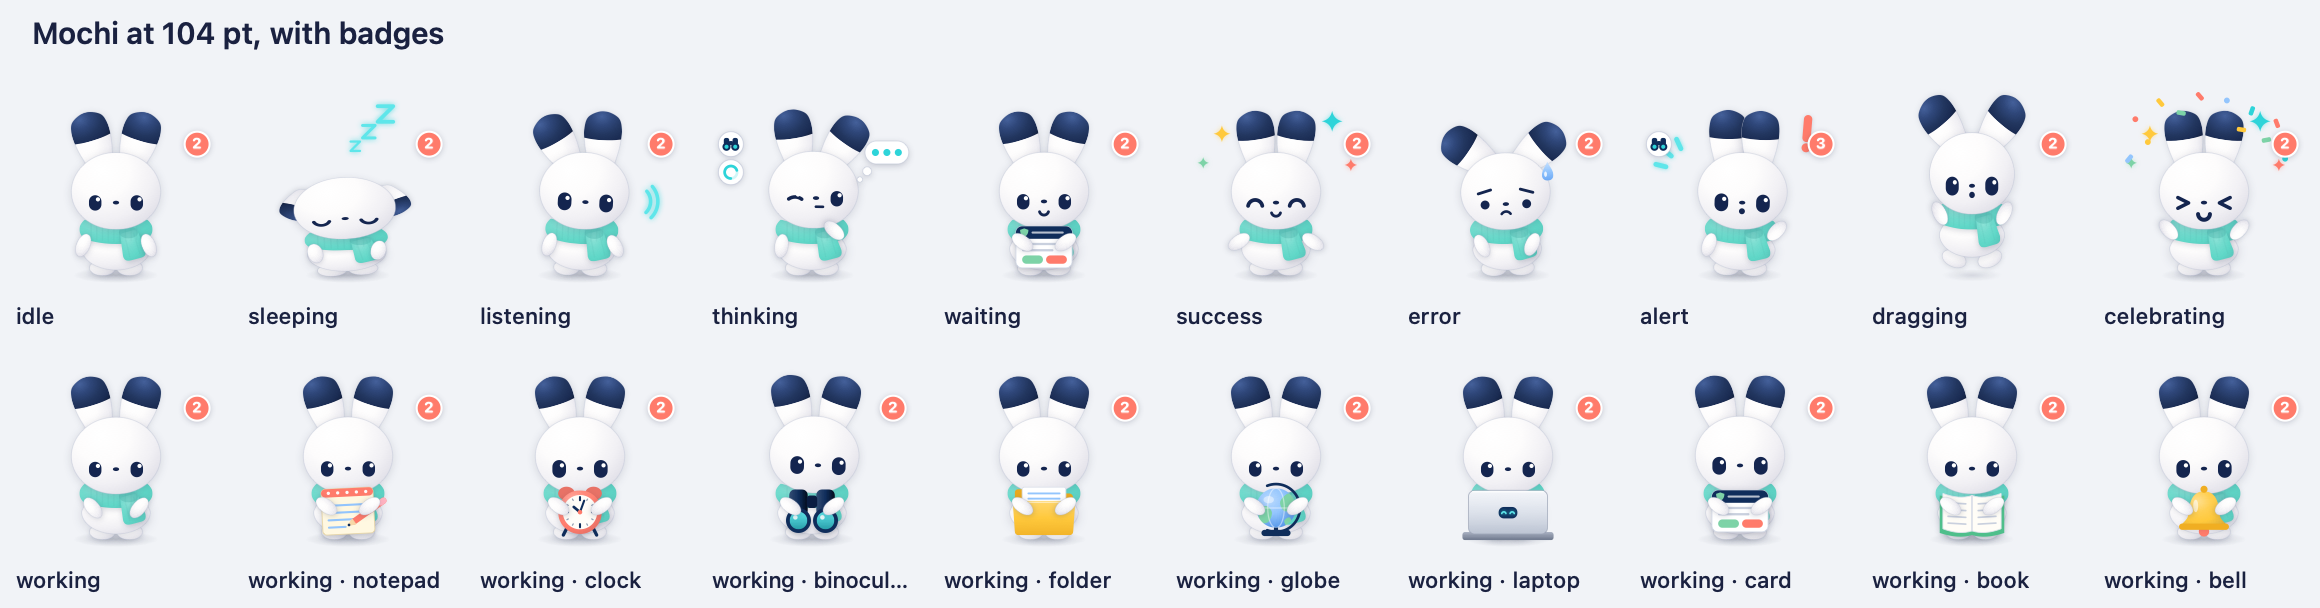
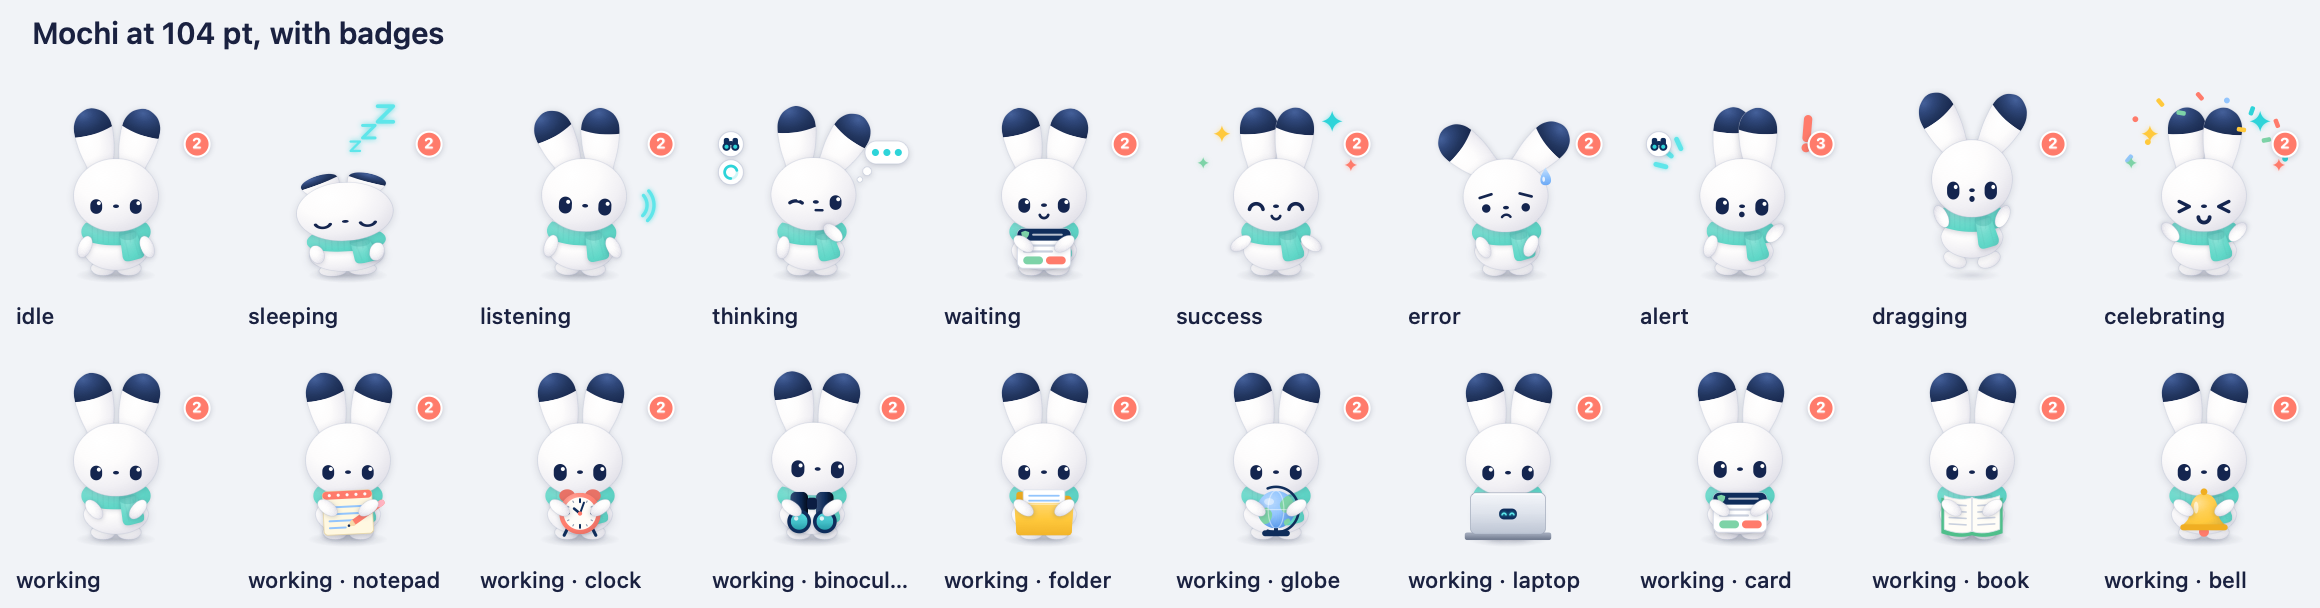
Mochi's ears after the mascot: taller ovals with round navy tips, a lively lean, tucked back asleep
- About 25% longer, egg-shaped: slim where they join behind the head, widest high up, tapering a
  little to a fully round tip; the navy covers the top two fifths with a soft curved boundary,
  a little lower on the outer side.
- Rest lean 11.5° and 14° (left, right), so the pair isn't a mirror image.
- Asleep they lie back behind the head: only the round navy tips show over it.
- Species.scale: Mochi is drawn at 95% so the taller ears stay in the window when it hops or is
  lifted (every state still fits; tested).

diff --git a/Sources/SidefolkCharacter/Mochi.swift b/Sources/SidefolkCharacter/Mochi.swift
@@ -23,17 +23,22 @@ extension Species {
         // Eyes low and wide on the face, a little bigger than the folks' (scale): they carry the cuteness.
         face: SoftFace(kind: .ink, eyes: (pt(80, 89.5), pt(120, 89.5)), mouth: pt(100, 81.5),
                        nose: CGRect(x: 97, y: 88, width: 6, height: 3.6), scale: 1.14),
-        appendages: [ear(base: pt(85, 127), angle: 0.3, side: -1), ear(base: pt(115, 127), angle: -0.3, side: 1)],
+        // A slight outward lean, one ear a touch more than the other, so it looks alive.
+        appendages: [ear(base: pt(85, 127), angle: 0.2, side: -1), ear(base: pt(115, 127), angle: -0.25, side: 1)],
         collar: Collar(center: pt(100, 64), halfWidth: 30, sag: 4.5, height: 19, tail: 1.45),
-        restingFrame: CGRect(x: 57, y: 20, width: 86, height: 156),
+        restingFrame: CGRect(x: 57, y: 20, width: 86, height: 168),
         markOffsets: [.zzz: pt(-20, 20), .dots: pt(22, -18), .question: pt(8, 0), .exclaim: pt(6, 0),
-                      .sweat: pt(-6, -12), .waves: pt(-15, -6), .ticks: pt(-10, -14)])
+                      .sweat: pt(-6, -12), .waves: pt(-15, -6), .ticks: pt(-10, -14)],
+        // Its tall ears would leave the window when it hops or is lifted at full size.
+        scale: 0.95)
 
-    /// A tall rabbit ear rising from behind the head: slim where it joins, round at the top, the
-    /// upper part dipped in navy. Asleep it folds back and down along the head.
+    /// A tall rabbit ear rising from behind the head: a long oval, slim where it joins, tapering a
+    /// little to a fully round tip, its top two fifths dipped in navy. Asleep it lies back behind
+    /// the head, only the round tips showing over it.
     private static func ear(base: CGPoint, angle: CGFloat, side: CGFloat) -> AppendageSpec {
-        let outline = Paths.blob([pt(-10, -4), pt(-15, 10), pt(-17.5, 23), pt(-18, 35), pt(-14, 46), pt(0, 51.5),
-                                  pt(14, 46), pt(18, 35), pt(17.5, 23), pt(15, 10), pt(10, -4), pt(0, -7)])
+        let outline = Paths.blob([pt(-10.5, -4), pt(-14.5, 8), pt(-17.5, 20), pt(-19, 31), pt(-19.5, 41), pt(-17.5, 50.5),
+                                  pt(-11.5, 58.5), pt(0, 63), pt(11.5, 58.5), pt(17.5, 50.5), pt(19.5, 41), pt(19, 31),
+                                  pt(17.5, 20), pt(14.5, 8), pt(10.5, -4), pt(0, -7)])
         return AppendageSpec(base: base, angle: angle, side: side, layers: { _ in
             let root = Layers.canvas()
             let ear = SoftShape(outline, shading: Shading(colors: Palette.fur, locations: [0, 0.3, 0.6, 0.85, 1],
@@ -44,8 +49,9 @@ extension Species {
             root.addSublayer(ear.layer)
             // The navy cap ends in a soft curve, lower in the middle like the mascot's.
             let dip = CGMutablePath()
-            dip.move(to: pt(-30, 28))
-            dip.addQuadCurve(to: pt(30, 28), control: pt(0, 19))
+            // Gently curved and a little lower on the outer side, like the mascot's.
+            dip.move(to: pt(-30, 42 + 3 * side))
+            dip.addQuadCurve(to: pt(30, 42 - 3 * side), control: pt(0, 31))
             dip.addLine(to: pt(30, 80))
             dip.addLine(to: pt(-30, 80))
             dip.closeSubpath()
@@ -55,6 +61,6 @@ extension Species {
                                                  reach: CGSize(width: 0.95, height: 1.05)))
             root.addSublayer(tip.layer)
             return root
-        }, outline: outline, floppiness: 1, fold: AppendageSpec.Fold(shift: pt(16, -7), turn: 2.15, length: 0.64))
+        }, outline: outline, floppiness: 1, fold: AppendageSpec.Fold(shift: pt(0, -3), turn: -0.1, length: 0.4))
     }
 }

diff --git a/Sources/SidefolkCharacter/SoftRig.swift b/Sources/SidefolkCharacter/SoftRig.swift
@@ -29,6 +29,8 @@ final class SoftRig: Figure {
     let badges = Layers.canvas()
 
     private let species: Species
+    /// The species' drawing scale around the floor point; `body` below it holds the pose.
+    private let fit = Layers.canvas()
     private let body = Layers.canvas()
     private let ground = CAGradientLayer()
     private let feet: [CALayer]
@@ -89,7 +91,7 @@ final class SoftRig: Figure {
 
     private func build() {
         ground.type = .radial
-        let width = species.restingFrame.width * 0.95
+        let width = restingFrame.width * 0.95
         ground.frame = CGRect(x: 100 - width / 2, y: Canvas.floor - 7.5, width: width, height: 15)
         ground.colors = [Palette.ink.cg(0.24), Palette.ink.cg(0.11), Palette.ink.cg(0)]
         ground.locations = [0, 0.5, 1]
@@ -97,7 +99,9 @@ final class SoftRig: Figure {
         ground.endPoint = CGPoint(x: 1, y: 1)
         stage.addSublayer(ground)
 
-        stage.addSublayer(body)
+        fit.setAffineTransform(CGAffineTransform(scaleX: species.scale, y: species.scale))
+        stage.addSublayer(fit)
+        fit.addSublayer(body)
         body.addSublayer(loop)
         loop.addSublayer(gesture)
         gesture.addSublayer(breath)
@@ -195,7 +199,13 @@ final class SoftRig: Figure {
 
     // MARK: Figure
 
-    var restingFrame: CGRect { species.restingFrame }
+    var restingFrame: CGRect { species.restingFrame.applying(fitting) }
+
+    /// Canvas units as the species drew them to canvas units on the stage.
+    private var fitting: CGAffineTransform {
+        CGAffineTransform(translationX: Canvas.pivot.x, y: Canvas.pivot.y).scaledBy(x: species.scale, y: species.scale)
+            .translatedBy(x: -Canvas.pivot.x, y: -Canvas.pivot.y)
+    }
     var listeningLights: [CALayer] { [] }
     var markLight: Light { species.marks ?? accent.light }
     func markOffset(_ effect: Effect) -> CGPoint { species.markOffsets[effect] ?? .zero }
@@ -325,7 +335,7 @@ final class SoftRig: Figure {
             .rotated(by: pose.lean)
             .scaledBy(x: pose.squash.width, y: pose.squash.height)
             .translatedBy(x: -Canvas.pivot.x, y: -Canvas.pivot.y)
-        return Paths.transformed(shape, t)
+        return Paths.transformed(shape, t.concatenating(fitting))
     }
 
     /// The parts that never move relative to the body, merged once.

diff --git a/Sources/SidefolkCharacter/Species.swift b/Sources/SidefolkCharacter/Species.swift
@@ -32,6 +32,9 @@ struct Species {
     var markOffsets: [Effect: CGPoint] = [:]
     /// The colour of its marks when not its accent light.
     var marks: Light?
+    /// Draws the whole body this much smaller around the floor point, so a tall companion's ears
+    /// stay inside the window when it hops or is lifted. Coordinates above are before it.
+    var scale: CGFloat = 1
 
     /// The robot is its own rig; every other companion is a soft rig of its species.
     static func figure(for species: CharacterSpecies) -> any Figure {

diff --git a/docs/CHARACTER.md b/docs/CHARACTER.md
@@ -53,9 +53,10 @@ A `SoftRig` is built from a `Species`: data, not code paths. It says the body's 
 an optional head (Mochi and Spark have necks; folks are one piece), the neck the head turns around,
 feet, shoulders and an `ArmStyle`, the face (`SoftFace`: ink bead eyes, or a dark screen with glowing
 eyes), `AppendageSpec`s (ears, antennae, a sprout), `Gear` worn on the back, head, face or body, an
-optional `Held` signature thing, where a scarf goes (`Collar`), the anchor frame and where effects sit
-clear of its ears (`markOffsets`). `Mochi.swift`, `Spark.swift` and `FolkSpecies.swift` are the
-whole of each companion.
+optional `Held` signature thing, where a scarf goes (`Collar`), the anchor frame, where effects sit
+clear of its ears (`markOffsets`) and a drawing `scale` (Mochi is drawn at 95% so its tall ears stay
+in the window when it hops or is lifted). `Mochi.swift`, `Spark.swift` and `FolkSpecies.swift` are
+the whole of each companion.
 
 On top of the shared choreography a soft rig adds:
 
@@ -67,8 +68,8 @@ On top of the shared choreography a soft rig adds:
 - **Ears.** Each `Appendage` turns around its base on three layers: pose (droop for error and sleep,
   perk for alerts, one ear up while listening), trail (a damped flop after a hop, nod or new pose, a
   swing after a shake) and sway (a slow idle swing, out of step between ears, fast while dragged).
-  Soft ears with a `Fold` (Mochi's) fold back and down along the head when asleep: the base slides
-  to the head's edge, the ear turns down and shows less of itself, like a lop ear.
+  Soft ears with a `Fold` (Mochi's) lie back behind the head when asleep: seen from the front they
+  shorten until only their round navy tips show over it.
   Floppiness scales all of it (Mochi's ears 1, Spark's stiff antenna 0.7, Seed's sprout 0.6).
 - **Gaze.** The eyes slide, the face slides a little further (parallax) and the head turns and tilts
   toward the pointer around the neck; ears ride on the head.
